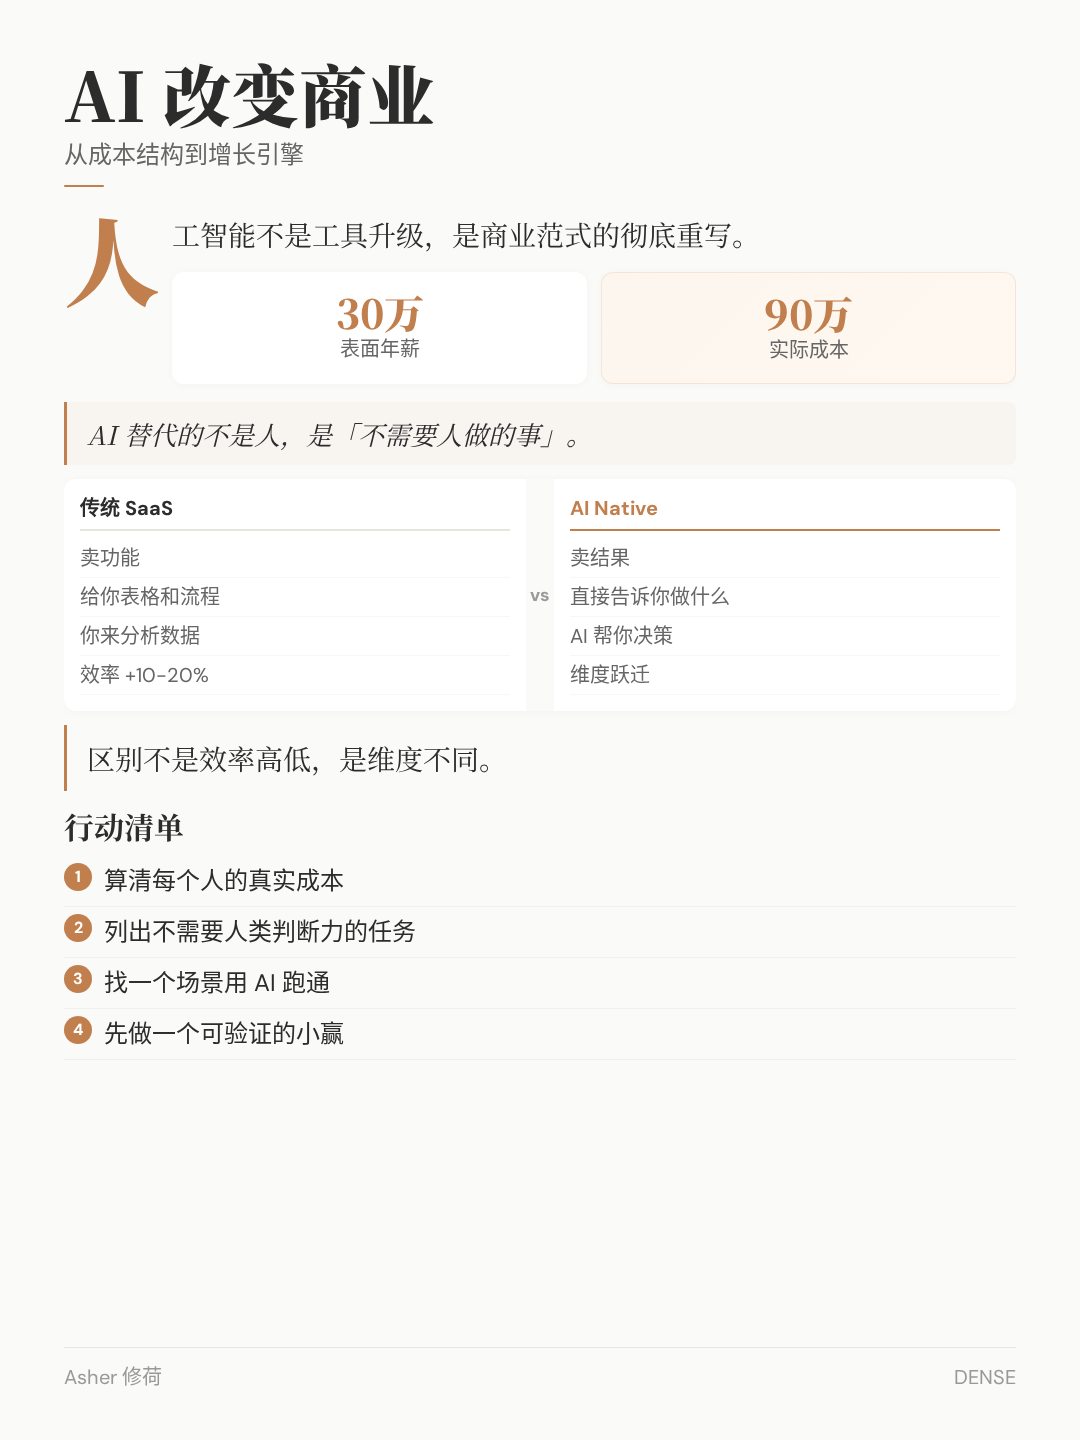
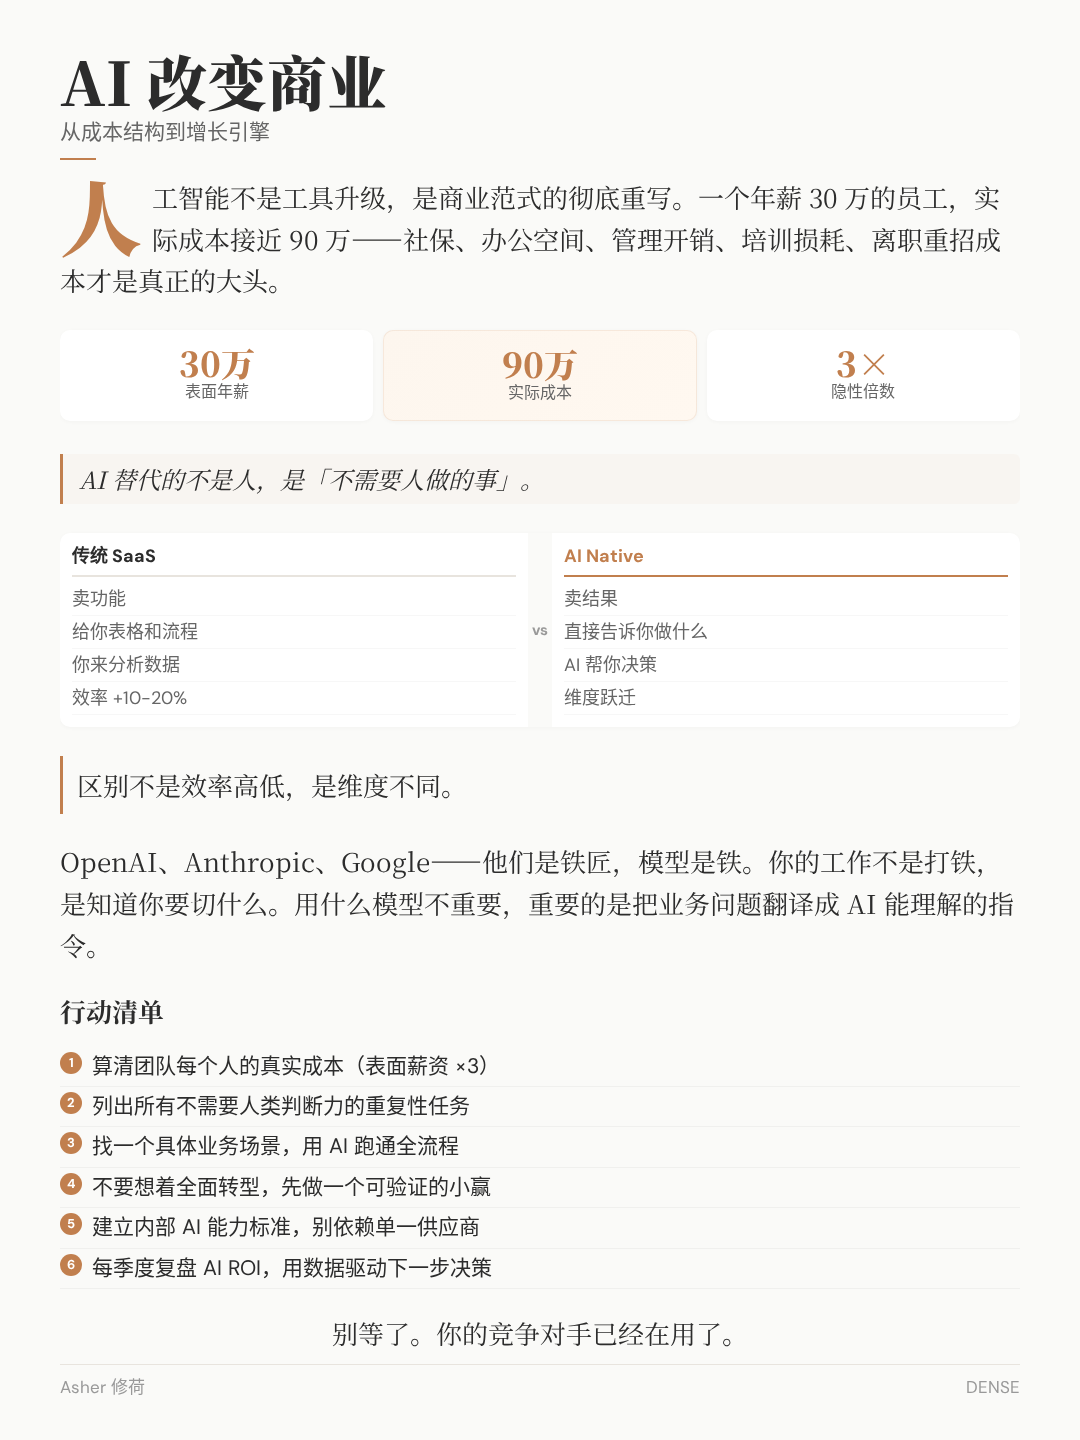
Add page fill rules + medium density level for Mode B
- SKILL.md: density table (sparse/balanced/medium/dense) with CSS strategies
- Dense rule: content must fill page, never stretch spacing
- All densities use flex column layout with appropriate justify-content
- README: 3 brands × 4 densities (added medium column)

diff --git a/SKILL.md b/SKILL.md
@@ -518,6 +518,17 @@ Markdown
 | 漫画 (Comic) | `-c` | 1080×auto | 黑白漫画分格 |
 | 白板 (Whiteboard) | `-w` | 1080×auto | 结构化框图，思维导图 |
 
+**Content density levels** (for multi-card mold `-m`):
+
+| Level | 内容量 | 组件 | 典型场景 |
+|-------|--------|------|---------|
+| **Sparse** | 标题 + 1 句核心金句 | 居中标题、金句、accent bar | 封面页、宣言页 |
+| **Balanced** | 标题 + 数据卡 + 引用 | 标题区、2 个数据卡、callout | 要点展示、数据亮点 |
+| **Medium** | 数据卡 + 对比表 + 引用 | 数据卡、对比表、金句高亮 | 对比分析、中等信息量 |
+| **Dense** | 全量内容刚好填满一页 | 数据卡+对比表+段落+行动清单+结语 | 知识密集、行动导向 |
+
+AI 根据内容量自动选择密度。Dense 必须内容填满，不靠间距凑。
+
 Auto-selection (when no `--mold` specified):
 - 小红书系列内容 → `-m` (multi-card)
 - 单张知识卡片 → `-l` (long)
@@ -568,6 +579,28 @@ Reference: `{skill_dir}/references/text-render/tone-detection.md`
 2. **Bin**: Distribute blocks across pages with 1440px budget per page
 3. **Verify**: Playwright renders → check actual height
 4. **Rollback**: If overflow detected → re-bin with tighter budget → re-render
+
+**Page fill rules** (critical — no empty bottom space):
+
+每张 1080×1440 卡片必须看起来「刚好填满」，不能有明显的底部空白。根据内容密度选择不同策略：
+
+| 密度 | 内容量 | CSS 策略 | 如果还有空白 |
+|------|--------|---------|-------------|
+| **Sparse** | 标题 + 1 句金句 | `.content { justify-content: center }` 垂直居中 | 留白是设计意图，不需要填 |
+| **Balanced** | 标题 + 数据卡 + 引用 | `.content { justify-content: center }` 垂直居中 | 组件间距自然均匀分布 |
+| **Medium** | 数据卡 + 对比表 + 引用 | `.content { justify-content: center }` 垂直居中 | 组件已较多，间距微调即可 |
+| **Dense** | 全量内容填满整页 | `.content { justify-content: space-between }` 均匀分布 | **必须增加内容量直到填满**，不靠拉伸间距 |
+
+**Dense 模式的核心原则**：
+- Dense = 内容量本身就该多到刚好撑满 1440px
+- 如果 Dense 内容仍有底部空白 → **增加内容**（多加 1-2 条行动项、多加一段洞察、多加一个数据点）
+- 绝不靠增大 padding/margin 来「凑满」— 那是假 dense
+- 用 `justify-content: space-between` 只是兜底，不是主要手段
+
+**通用规则**：
+- 所有密度的 `.content` 容器都必须是 `display: flex; flex-direction: column`
+- Footer 紧贴底部（`margin-top: auto`）
+- 渲染后目视检查：底部空白不超过 footer 上方 40px
 
 Reference: `{skill_dir}/references/text-render/typography.md`
 

diff --git a/README.md b/README.md
@@ -94,30 +94,32 @@ Each layout combines with 20 visual styles (craft-handmade, aged-academia, claym
 
 Pixel-perfect text rendering — HTML/CSS + Playwright → 1080×1440 PNG. No AI text distortion, data cards, comparison tables, numbered action lists — all rendered with crisp typography.
 
-### Three Brands × Three Densities
+### Three Brands × Four Densities
 
 Same content, *"AI Transforms Business"*, rendered across all brand/density combinations:
 
 **tuisheng (Dark Cyber-Academic)**
 
-| | | |
-|---|---|---|
-| ![](assets/mode-b/tuisheng-sparse.png) | ![](assets/mode-b/tuisheng-balanced.png) | ![](assets/mode-b/tuisheng-dense.png) |
-| Sparse — title + quote | Balanced — data cards + callout | Dense — full content + comparison + actions |
+| | | | |
+|---|---|---|---|
+| ![](assets/mode-b/tuisheng-sparse.png) | ![](assets/mode-b/tuisheng-balanced.png) | ![](assets/mode-b/tuisheng-medium.png) | ![](assets/mode-b/tuisheng-dense.png) |
+| Sparse | Balanced | Medium | Dense |
 
 **qihe (Corporate Professional)**
 
-| | | |
-|---|---|---|
-| ![](assets/mode-b/qihe-sparse.png) | ![](assets/mode-b/qihe-balanced.png) | ![](assets/mode-b/qihe-dense.png) |
-| Sparse — centered title | Balanced — cost cards + highlight | Dense — full content + comparison + actions |
+| | | | |
+|---|---|---|---|
+| ![](assets/mode-b/qihe-sparse.png) | ![](assets/mode-b/qihe-balanced.png) | ![](assets/mode-b/qihe-medium.png) | ![](assets/mode-b/qihe-dense.png) |
+| Sparse | Balanced | Medium | Dense |
 
 **asher (Warm Personal)**
 
-| | | |
-|---|---|---|
-| ![](assets/mode-b/asher-sparse.png) | ![](assets/mode-b/asher-balanced.png) | ![](assets/mode-b/asher-dense.png) |
-| Sparse — italic quote | Balanced — dropcap + warm cards | Dense — full content + comparison + actions |
+| | | | |
+|---|---|---|---|
+| ![](assets/mode-b/asher-sparse.png) | ![](assets/mode-b/asher-balanced.png) | ![](assets/mode-b/asher-medium.png) | ![](assets/mode-b/asher-dense.png) |
+| Sparse | Balanced | Medium | Dense |
+
+Content density is auto-selected. Dense pages are always filled — more content is added to avoid empty space, never stretched spacing.
 
 ### 6 Rendering Molds
 

diff --git a/README_CN.md b/README_CN.md
@@ -94,30 +94,32 @@ AI 根据内容自动选择最佳模式 — 也可以用 `--mode=ai`、`--mode=t
 
 像素级精准的文字渲染 — HTML/CSS + Playwright → 1080×1440 PNG。没有 AI 文字扭曲，数据卡片、对比表格、编号行动清单——全部用清晰字体渲染。
 
-### 三个品牌 × 三种密度
+### 三个品牌 × 四种密度
 
 同一内容「AI 改变商业」，在所有品牌/密度组合下的效果：
 
 **tuisheng（暗色赛博学术）**
 
-| | | |
-|---|---|---|
-| ![](assets/mode-b/tuisheng-sparse.png) | ![](assets/mode-b/tuisheng-balanced.png) | ![](assets/mode-b/tuisheng-dense.png) |
-| 稀疏 — 标题+金句 | 平衡 — 数据卡片+引用 | 密集 — 全量内容+对比+行动 |
+| | | | |
+|---|---|---|---|
+| ![](assets/mode-b/tuisheng-sparse.png) | ![](assets/mode-b/tuisheng-balanced.png) | ![](assets/mode-b/tuisheng-medium.png) | ![](assets/mode-b/tuisheng-dense.png) |
+| 稀疏 | 平衡 | 微密 | 密集 |
 
 **qihe（商务专业）**
 
-| | | |
-|---|---|---|
-| ![](assets/mode-b/qihe-sparse.png) | ![](assets/mode-b/qihe-balanced.png) | ![](assets/mode-b/qihe-dense.png) |
-| 稀疏 — 居中标题 | 平衡 — 成本卡片+高亮 | 密集 — 全量内容+对比+行动 |
+| | | | |
+|---|---|---|---|
+| ![](assets/mode-b/qihe-sparse.png) | ![](assets/mode-b/qihe-balanced.png) | ![](assets/mode-b/qihe-medium.png) | ![](assets/mode-b/qihe-dense.png) |
+| 稀疏 | 平衡 | 微密 | 密集 |
 
 **asher（暖色个人）**
 
-| | | |
-|---|---|---|
-| ![](assets/mode-b/asher-sparse.png) | ![](assets/mode-b/asher-balanced.png) | ![](assets/mode-b/asher-dense.png) |
-| 稀疏 — 斜体引用 | 平衡 — 首字下沉+暖色卡 | 密集 — 全量内容+对比+行动 |
+| | | | |
+|---|---|---|---|
+| ![](assets/mode-b/asher-sparse.png) | ![](assets/mode-b/asher-balanced.png) | ![](assets/mode-b/asher-medium.png) | ![](assets/mode-b/asher-dense.png) |
+| 稀疏 | 平衡 | 微密 | 密集 |
+
+密度由 AI 根据内容量自动选择。密集模式必须用内容填满整页，不靠拉伸间距凑数。
 
 ### 6 种渲染模具
 
